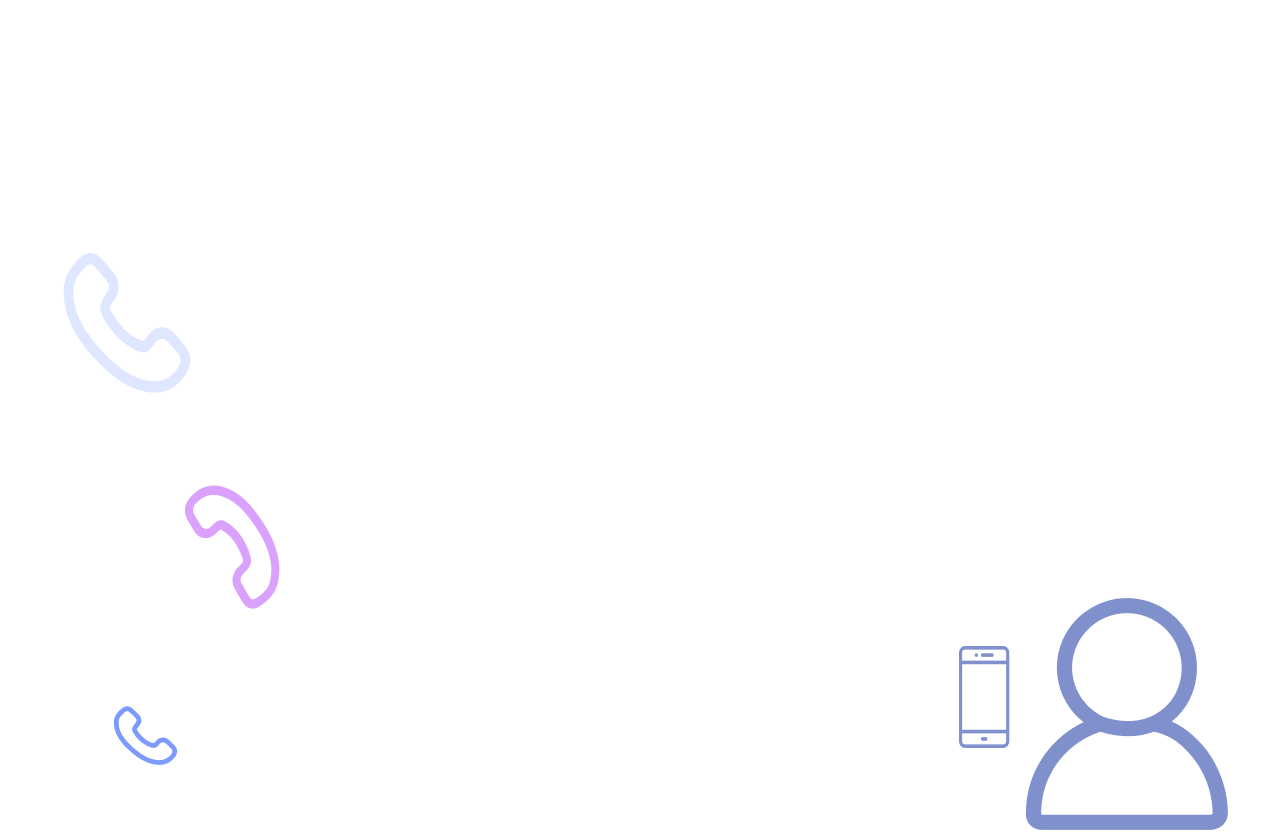
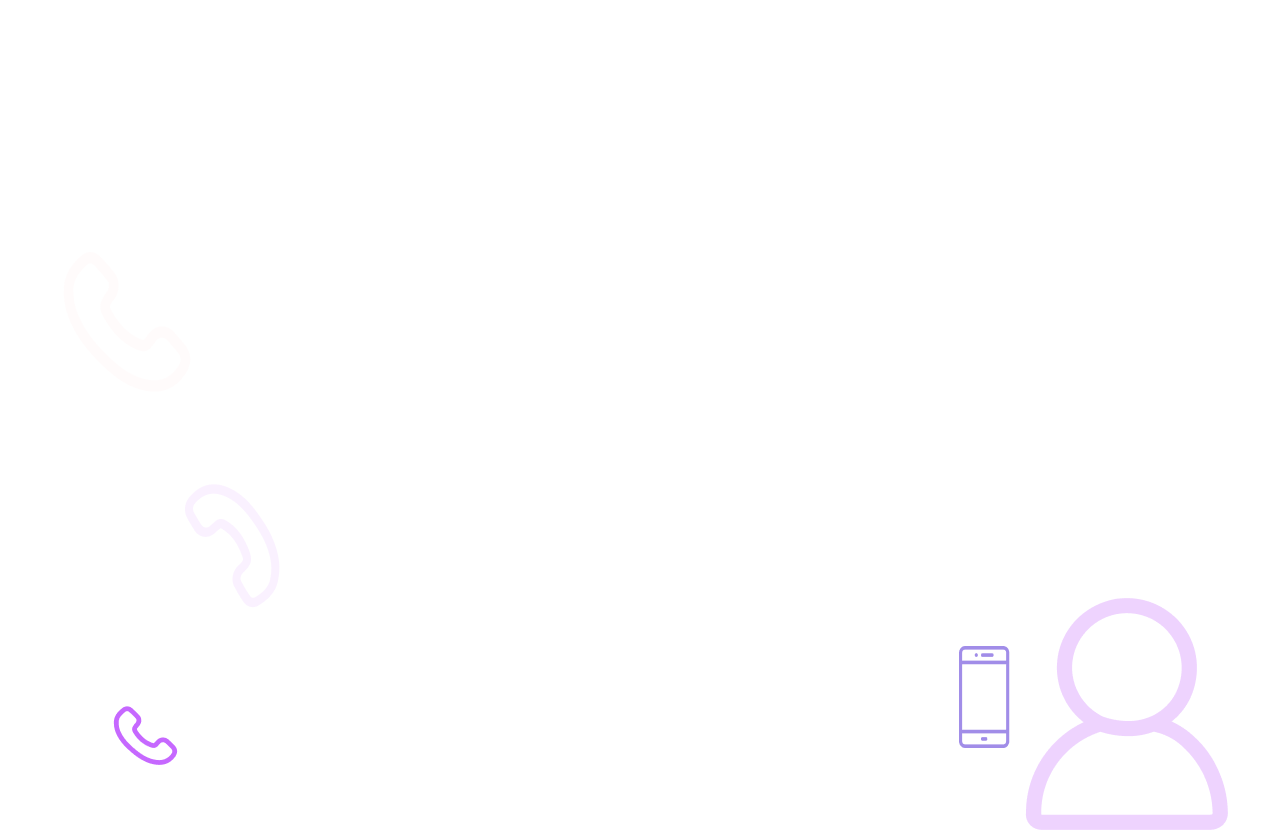
theme

diff --git a/src/components/NavBar/UserMenu/UserMenu.jsx b/src/components/NavBar/UserMenu/UserMenu.jsx
@@ -1,4 +1,4 @@
-import React from "react";
+import React, { useContext } from "react";
 import { useSelector, useDispatch } from "react-redux";
 
 import { selectUserEmail } from "../../../redux/selectors";
@@ -7,11 +7,14 @@ import { fetchLogout } from "../../../redux/auth/auth-operations";
 import Button from "../../../shared/Button";
 import Icon from "../../../shared/Icon/Icon";
 
+import { ThemeContext } from "../../../utils/ThemeProvider/ThemeProvider";
+
 import css from "./UserMenu.module.scss";
 
 const UserMenu = () => {
   const userEmail = useSelector(selectUserEmail);
   const dispatch = useDispatch();
+  const { theme } = useContext(ThemeContext);
 
   const onLogout = () => {
     dispatch(fetchLogout());
@@ -23,7 +26,11 @@ const UserMenu = () => {
         <Button navLink={true} to={"/user"} onlyIcon={true}>
           <Icon id="user" h="28" w="28" />
         </Button>
-        <p className={css.p}>{userEmail}</p>
+        <p
+          className={`${theme === "dark" ? css.p_darkTheme : css.p_lightTheme}`}
+        >
+          {userEmail}
+        </p>
       </div>
       <Button
         onClick={onLogout}

diff --git a/src/components/NavBar/NavBar.jsx b/src/components/NavBar/NavBar.jsx
@@ -1,4 +1,4 @@
-import React from "react";
+import React, { useContext } from "react";
 import { useSelector } from "react-redux";
 import { NavLink } from "react-router-dom";
 
@@ -7,15 +7,21 @@ import { isUserLogin } from "../../redux/selectors";
 import UserMenu from "./UserMenu/UserMenu";
 import AuthMenu from "./AuthMenu/AuthMenu";
 import ThemeSwitcher from "../Switchers/ThemeSwitcher/ThemeSwitcher";
+import { ThemeContext } from "../../utils/ThemeProvider/ThemeProvider";
 
 import css from "./NavBar.module.scss";
 
 const NavBar = () => {
   const isLogin = useSelector(isUserLogin);
+  const { theme } = useContext(ThemeContext);
 
   return (
     <header className={css.header}>
-      <div className={css.nav_links}>
+      <div
+        className={`${css.nav_links} ${
+          theme === "dark" ? css.nav_links_darkTheme : css.nav_links_lightTheme
+        }`}
+      >
         <NavLink to="/" className={css.link}>
           Home
         </NavLink>

diff --git a/src/components/Home/Home.jsx b/src/components/Home/Home.jsx
@@ -1,9 +1,20 @@
+import React, { useContext } from "react";
+
+import { ThemeContext } from "../../utils/ThemeProvider/ThemeProvider";
+
 import css from "./Home.module.scss";
 
 const Home = () => {
+  const { theme } = useContext(ThemeContext);
   return (
     <section className={css.container}>
-      <h1 className={css.title}>Welcome to phonebook!</h1>
+      <h1
+        className={`${css.h1} ${
+          theme === "dark" ? css.h1_darkTheme : css.h1_lightTheme
+        }`}
+      >
+        Welcome to phonebook!
+      </h1>
       <div className={css.gif}>
         <img src={require("../../assets/gifs/home_gif.gif")} alt="GIF" />
       </div>

diff --git a/src/components/NavBar/UserMenu/UserMenu.module.scss b/src/components/NavBar/UserMenu/UserMenu.module.scss
@@ -3,17 +3,7 @@
   align-items: center;
   gap: 30px;
   flex-direction: row;
-  color: #43404d;
   font-size: 20px;
-}
-
-.link {
-  display: flex;
-  justify-content: center;
-  align-items: center;
-  gap: 30px;
-  color: #28284a;
-  font-size: 22px;
 }
 
 .userContainer {
@@ -22,6 +12,9 @@
   align-items: center;
 }
 
-.p{
-  color:#7e77a0;
+.p_lightTheme {
+  color: #7e77a0;
+}
+.p_darkTheme {
+  color: #eec0f0;
 }

diff --git a/src/components/NavBar/NavBar.module.scss b/src/components/NavBar/NavBar.module.scss
@@ -3,16 +3,19 @@
   padding: 15px 30px;
   align-items: center;
 }
-
 .nav_links {
   display: flex;
   justify-content: center;
   align-items: center;
   gap: 30px;
-  color: #28284a;
   font-size: 24px;
 }
-
+.nav_links_lightTheme {
+  color: #28284a;
+}
+.nav_links_darkTheme {
+  color: #eec0f0;
+}
 .link {
   &:global(.active) {
     font-weight: bold;

diff --git a/src/layout/Layout.module.scss b/src/layout/Layout.module.scss
@@ -13,10 +13,11 @@
   height: 100vh;
   background-size: cover;
   background: linear-gradient(
-    180deg,
-    rgba(134, 0, 217, 0.5) 0%,
-    rgba(4, 59, 255, 0.5) 57.81%
-  );
+      0deg,
+      rgba(0, 0, 0, 0.2) 0%,
+      rgba(0, 0, 0, 0.2) 100%
+    ),
+    linear-gradient(180deg, #b338ff 0%, #466fff 100%);
 }
 .lightBg {
   height: 832px;

diff --git a/src/components/Footer/Footer.module.scss b/src/components/Footer/Footer.module.scss
@@ -7,10 +7,10 @@
   width: 100%;
 }
 .lightTheme {
-  background-color: rgb(252, 226, 222, 0.4);
+  background-color: rgb(252, 226, 222, 0.3);
   color: rgb(86, 58, 89);
 }
 .darkTheme {
-  background-color: rgba(213, 145, 255, 0.6);
-  color: rgb(22, 63, 209);
+  background-color: rgba(213, 145, 255, 0.3);
+  color: #28284a;
 }

diff --git a/src/components/Home/Home.module.scss b/src/components/Home/Home.module.scss
@@ -4,11 +4,16 @@
   align-items: center;
   justify-content: center;
 }
-.title {
+.h1 {
   font-weight: 700;
   font-size: 48px;
   text-align: center;
+}
+.h1_lightTheme {
   color: #7e77a0;
+}
+.h1_darkTheme {
+  color: #eec0f0;
 }
 .gif {
   width: 50%;
